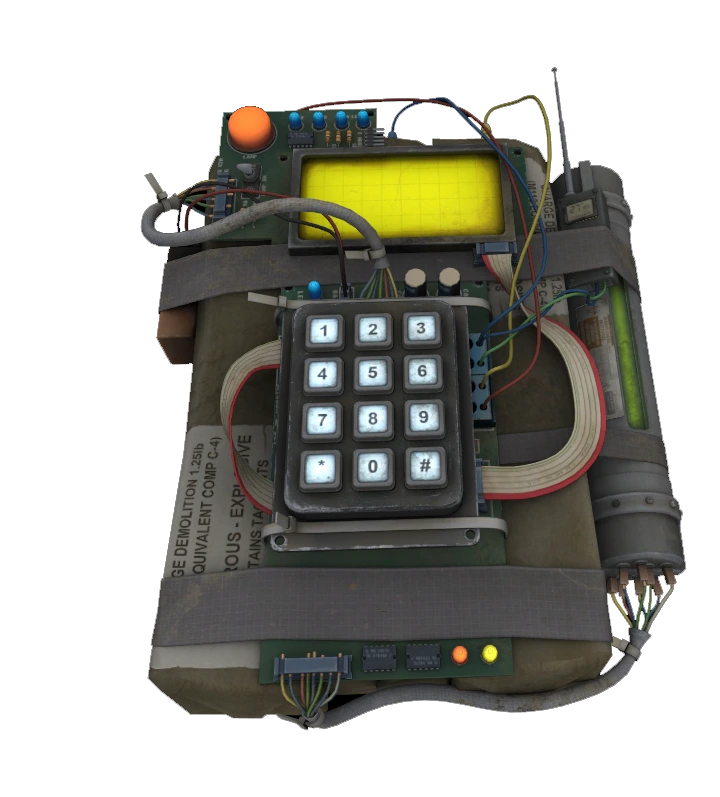
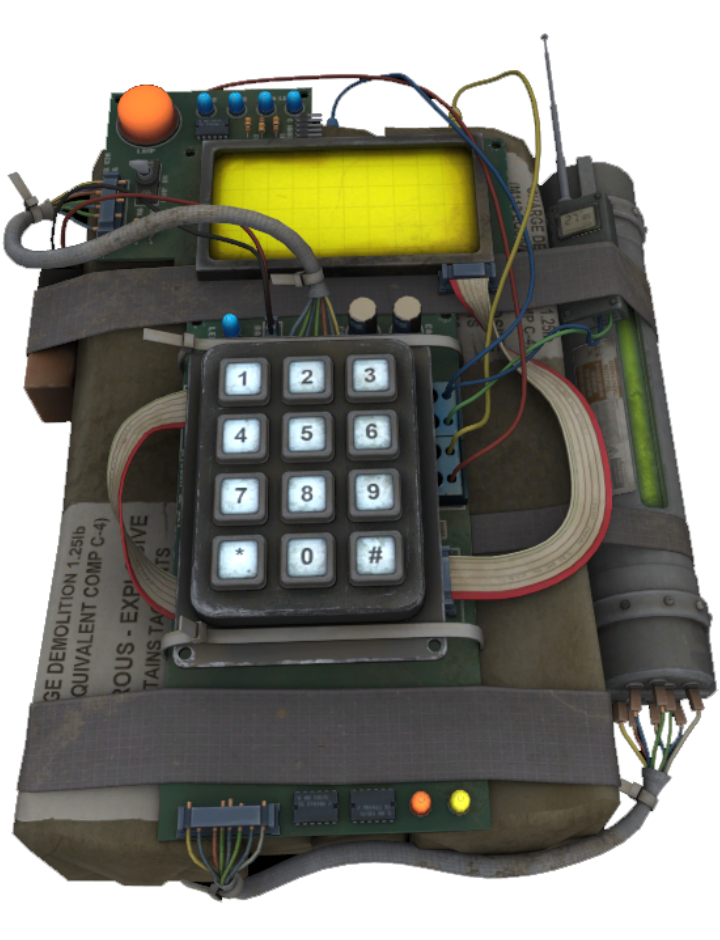
Mobile display fixes
Adjusted breakpoint sizes, cropped bomb image, improved the helper text.

diff --git a/src/App.tsx b/src/App.tsx
@@ -53,7 +53,7 @@ export default function App() {
   }
 
   return (
-    <main className="flex flex-col items-center gap-4 p-4">
+    <main className="flex flex-col items-center">
       <h1 className="font-[CounterStrike] text-2xl">CSGO BOMB APP</h1>
 
       {/* Bomb / Explosion Display */}
@@ -68,11 +68,12 @@ export default function App() {
           </button>
         </div>
       ) : (
-        <div className="relative h-2/3 flex items-center justify-center">
+        <div className="relative flex items-center justify-center">
           <img 
             src={bombImage} 
             alt="CSGO bomb" 
-            className="w-full h-auto"
+            className="w-full h-auto max-h-[90vh]"
+            onContextMenu={(e) => e.preventDefault()}
             onMouseDown={
               status === BombStatus.IDLE
                 ? handlePlantPointerDown
@@ -112,8 +113,8 @@ export default function App() {
           
           {/* Bomb timer */}
           {(status === BombStatus.PLANTED || status === BombStatus.DEFUSING) && (
-            <div className="absolute top-[20%] left-1/2 text-black font-[AlarmClock] text-right">
-              <p className='text-xl xxs:text-2xl xs:text-3xl sm:text-4xl md:text-5xl lg:text-6xl tabular-nums'>{(bombTimeLeft / 1000).toFixed(1)}</p>
+            <div className="absolute top-[18%] left-[44%] md:left-[43%] text-black font-[AlarmClock] text-right">
+              <p className='text-xl xxs:text-2xl xs:text-3xl sm:text-4xl md:text-5xl tabular-nums'>{(bombTimeLeft / 1000).toFixed(1)}</p>
             </div>
           )}
           
@@ -137,11 +138,11 @@ export default function App() {
 
           {/* Instruction overlay */}
           {(status === BombStatus.IDLE || status === BombStatus.PLANTED) && (
-            <div className="absolute bottom-8 w-full text-center text-white pointer-events-none select-none">
-              <p>
+            <div className="absolute bottom-20 w-full text-center text-white pointer-events-none select-none">
+              <p className='text-lg font-bold'>
                 {status === BombStatus.IDLE
-                  ? 'Click and hold to plant the bomb'
-                  : 'Click and hold to defuse the bomb'}
+                  ? 'Tap + Hold to plant bomb'
+                  : 'Tap + Hold to defuse bomb'}
               </p>
             </div>
           )}

diff --git a/src/index.css b/src/index.css
@@ -4,18 +4,19 @@
   font-family: "CounterStrike";
   src: local("CounterStrike"),
     url("./assets/fonts/cs_regular.ttf") format("truetype");
+}
 
+@font-face {
   font-family: "AlarmClock";
   src: local("AlarmClock"),
     url("./assets/fonts/alarm_clock.ttf") format("truetype");
 }
 
 @theme {
-  --breakpoint-xxs: 22rem;
-  --breakpoint-xs: 28rem;
-  --breakpoint-sm: 32rem;
-  --breakpoint-md: 38rem;
-  --breakpoint-lg: 44rem;
+  --breakpoint-xxs: 18rem;
+  --breakpoint-xs: 20rem;
+  --breakpoint-sm: 24rem;
+  --breakpoint-md: 28rem;
 }
 
 :root {

diff --git a/src/App.css b/src/App.css
@@ -1,6 +1,6 @@
 #root {
   max-width: 1280px;
   margin: 0 auto;
-  padding: 2rem;
+  padding: 1rem;
   text-align: center;
 }
